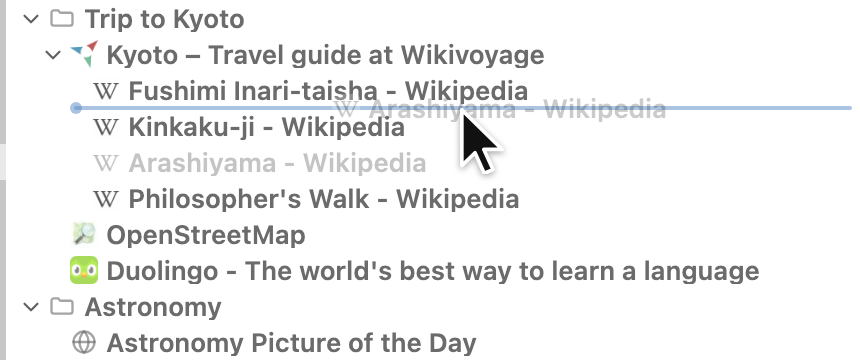
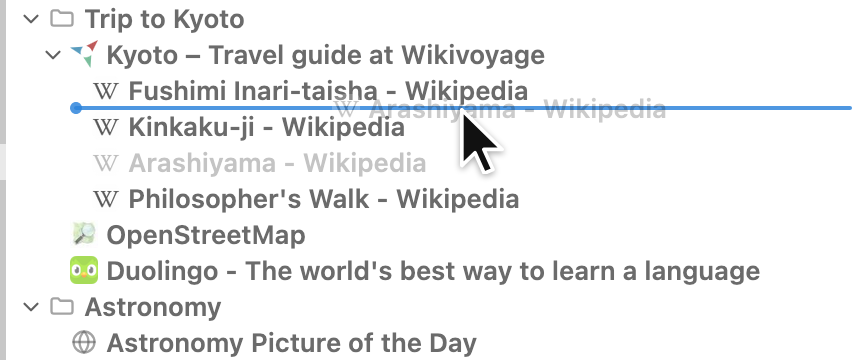
fix(listing): render the screenshots in Firefox on macOS 27
Playwright's Firefox (before r1564 / Firefox 158) reads the real Firefox's
~/Library/Application Support/Firefox, which macOS 27 TCC-protects, so the
launch hung (microsoft/playwright#42768). Point Cocoa's home lookups at an
empty temp dir for the firefox project; Firefox's sandboxes are untouched.
Re-render the committed PNGs in Firefox and drop the "currently Chromium" note.

diff --git a/playwright.screenshots.config.ts b/playwright.screenshots.config.ts
@@ -1,8 +1,19 @@
+import { mkdirSync } from "node:fs";
+import { tmpdir } from "node:os";
+import { join } from "node:path";
 import { defineConfig, devices } from "@playwright/test";
 
 // AMO listing screenshots (`pnpm screenshots`), rendered in Firefox — the browser
 // the listing is for. Not part of `pnpm check`: it produces images, it tests nothing.
 const PORT = 5174;
+
+// Playwright's Firefox (before r1564 / Firefox 158) still reads the real
+// Firefox's app-data dir, ~/Library/Application Support/Firefox, which macOS 27
+// TCC-protects: launch hangs, or exits with "Could not find profile folder".
+// An empty home dir for Cocoa's lookups sidesteps it (microsoft/playwright#42768).
+// Firefox's own sandboxes are untouched.
+const firefoxHome = join(tmpdir(), "grove-screenshots-firefox-home");
+mkdirSync(firefoxHome, { recursive: true });
 
 export default defineConfig({
   testDir: "screenshots",
@@ -17,7 +28,13 @@ export default defineConfig({
   // firefox first: `--project firefox` is what the listing should use. chromium
   // is the fallback where Playwright's Firefox can't launch.
   projects: [
-    { name: "firefox", use: { browserName: devices["Desktop Firefox"].defaultBrowserType } },
+    {
+      name: "firefox",
+      use: {
+        browserName: devices["Desktop Firefox"].defaultBrowserType,
+        launchOptions: { env: { ...process.env, CFFIXED_USER_HOME: firefoxHome } },
+      },
+    },
     { name: "chromium", use: { browserName: devices["Desktop Chrome"].defaultBrowserType } },
   ],
   webServer: {

diff --git a/docs/store-listing.md b/docs/store-listing.md
@@ -91,8 +91,7 @@ rendering differ, so prefer Firefox for what gets uploaded. Output follows the
 host's system font and accent colour, so re-rendering on another machine changes
 the PNGs slightly. Re-run it whenever the sidebar's look changes.
 
-The committed PNGs are currently the **Chromium** render — re-render in Firefox
-before uploading. AMO frames screenshots at 1280×800 (16:10); these are
+AMO frames screenshots at 1280×800 (16:10); these are
 sidebar-shaped and get letterboxed, as the 1.0.0 listing's were.
 
 Captions, as on the listing:
